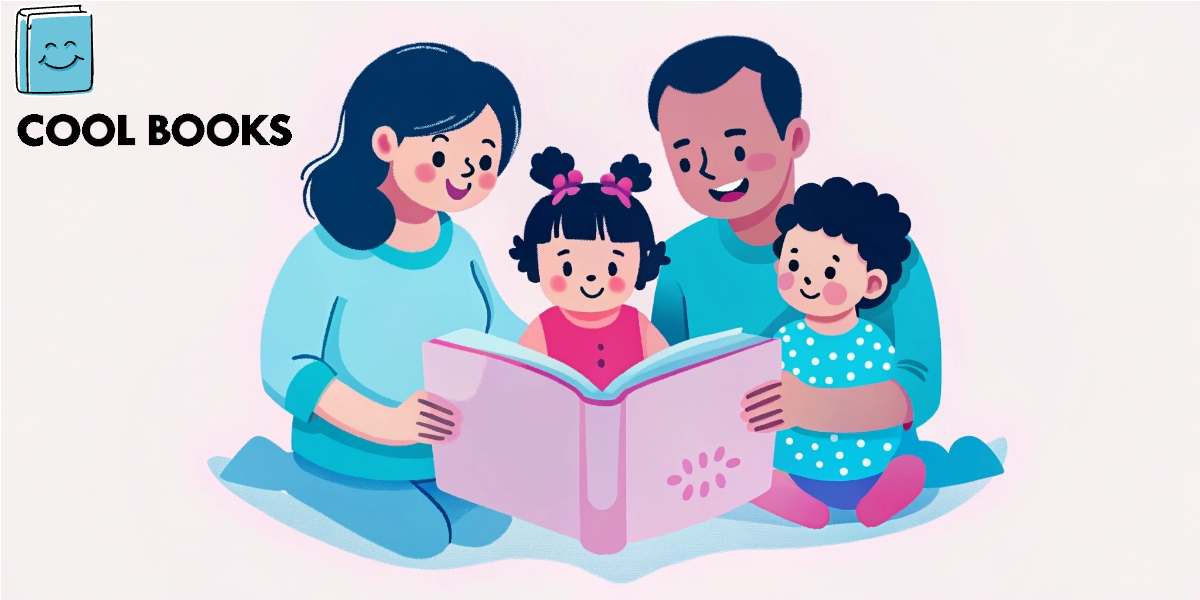
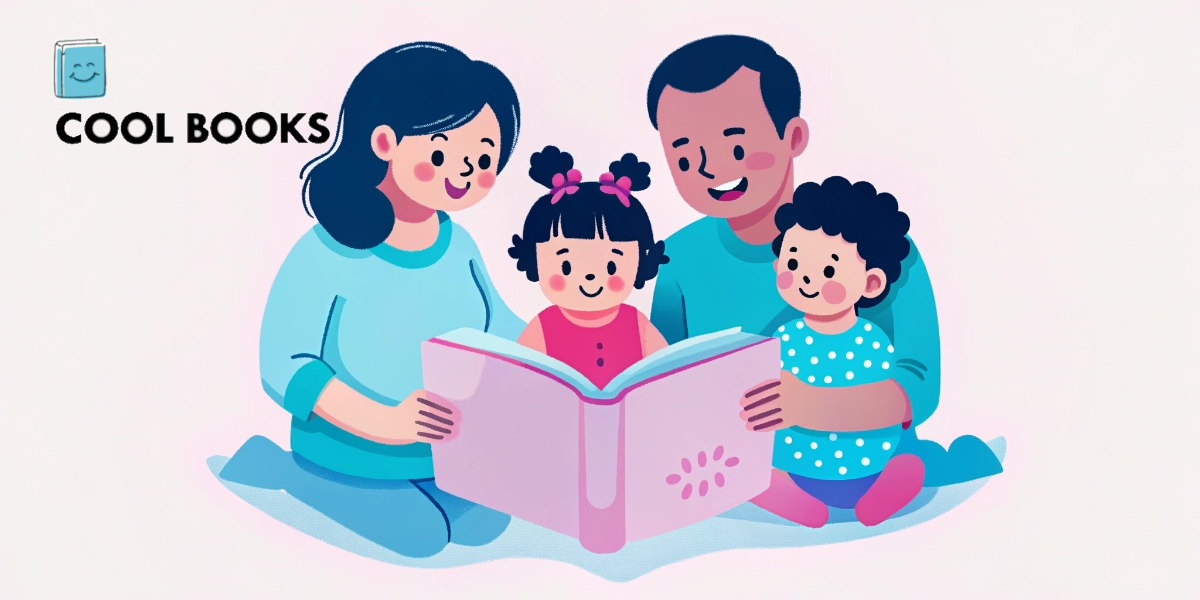
WIP

diff --git a/src/app/[locale]/(main)/book/[bookId]/book.tsx b/src/app/[locale]/(main)/book/[bookId]/book.tsx
@@ -7,13 +7,19 @@ import Image from "next/image";
 import { redirect, usePathname } from "next/navigation";
 import { motion, useMotionValue } from "framer-motion";
 import {
+    BookImage,
     Bookmark,
     ChevronLeft,
     ChevronRight,
+    FileImage,
     Info,
+    Lock,
     Maximize2,
     Minimize2,
+    Settings,
+    Share2,
     Trash2,
+    Unlock,
 } from "lucide-react";
 import toast from "react-hot-toast";
 import type { User } from "lucia";
@@ -38,6 +44,7 @@ type BookProps = {
         title: string;
         cover: string;
         pages: Page[];
+        public: boolean;
         user: {
             name: string;
         };
@@ -69,15 +76,51 @@ const SPRING_OPTIONS = {
 
 const Book: React.FC<BookProps> = ({ book, user, isCreator }) => {
     const t = useTranslations("pages.book");
-    const tLoginSave = useTranslations("links");
+    const tMessages = useTranslations("messages");
     const [imgIndex, setImgIndex] = useState(0);
+    const [loadingPublic, setLoadingPublic] = useState(false);
+    const [bookPublic, setBookPublic] = useState<boolean>(book.public);
     const [showFullscreen, setShowFullscreen] = useState(false);
     const [fullscreenError, setFullscreenError] = useState(false);
+    const [open, setOpen] = useState<boolean>(false);
     const containerRef = useRef<HTMLDivElement | null>(null);
     const [isSaved, setIsSaved] = useState<boolean>(
         user?.savedBooks.includes(book.id) ?? false
     );
+
     const toggleSave = useSave();
+
+    const togglePublic: React.MouseEventHandler<HTMLLabelElement> = async (
+        e
+    ) => {
+        e.stopPropagation();
+        if (loadingPublic) {
+            return;
+        }
+        if (!user) {
+            toast(tMessages("login-save"), {
+                icon: <Info className="text-info" />,
+            });
+            return;
+        }
+        if (!isCreator) {
+            toast(tMessages("unauthorized"), {
+                icon: <Info className="text-info" />,
+            });
+            return;
+        }
+
+        setLoadingPublic(true);
+        setBookPublic((e) => !e);
+        await fetch("/api/book/update", {
+            method: "POST",
+            body: JSON.stringify({
+                id: book.id,
+                public: !bookPublic,
+            }),
+        });
+        setLoadingPublic(false);
+    };
 
     const allPages = [
         {
@@ -142,7 +185,7 @@ const Book: React.FC<BookProps> = ({ book, user, isCreator }) => {
 
     const handleSave = async () => {
         if (!user) {
-            toast(tLoginSave("login-save"), {
+            toast(tMessages("login-save"), {
                 icon: <Info className="text-info" />,
             });
             return;
@@ -153,12 +196,14 @@ const Book: React.FC<BookProps> = ({ book, user, isCreator }) => {
         await toggleSave(isSaved ? "unsave" : "save", book.id);
     };
 
-    if (!user) {
-        return <MustLogin />;
-    }
-
     return (
         <>
+            <DeleteBook
+                bookId={book.id}
+                callback={() => redirect("/")}
+                open={open}
+                setOpen={setOpen}
+            />
             <FullscreenError
                 open={fullscreenError}
                 setOpen={setFullscreenError}
@@ -172,29 +217,6 @@ const Book: React.FC<BookProps> = ({ book, user, isCreator }) => {
                 </div>
 
                 <div className="flex gap-2">
-                    {isCreator && (
-                        <DeleteBook
-                            bookId={book.id}
-                            callback={() => redirect("/")}
-                        >
-                            <button className="btn btn-circle btn-soft btn-error">
-                                <Trash2 className="size-6" />
-                            </button>
-                        </DeleteBook>
-                    )}
-
-                    <button
-                        onClick={handleSave}
-                        className="btn btn-circle btn-primary"
-                    >
-                        <Bookmark
-                            className={cn(
-                                "size-6 text-white",
-                                isSaved && "fill-white"
-                            )}
-                        />
-                    </button>
-
                     <button
                         onClick={toggleFullscreen}
                         className="btn btn-circle btn-primary"
@@ -204,6 +226,98 @@ const Book: React.FC<BookProps> = ({ book, user, isCreator }) => {
                             <Minimize2 className="size-6" />
                         :   <Maximize2 className="size-6" />}
                     </button>
+
+                    <div className="dropdown dropdown-end">
+                        <div
+                            tabIndex={0}
+                            role="button"
+                            className="btn btn-circle btn-soft bg-secondary text-white"
+                        >
+                            <Settings className="size-6" />
+                        </div>
+                        <ul
+                            tabIndex={-1}
+                            className="dropdown-content menu bg-base-200 !z-1 rounded-box w-64 p-2 shadow-xl border border-base-300 gap-y-2 mt-2"
+                        >
+                            {isCreator && (
+                                <li>
+                                    <label
+                                        className={cn(
+                                            "btn rounded-xl justify-between",
+                                            loadingPublic && "contrast-50"
+                                        )}
+                                        onClick={togglePublic}
+                                    >
+                                        <span className="flex items-center gap-x-2">
+                                            {bookPublic ?
+                                                <Unlock className="size-6" />
+                                            :   <Lock className="size-6" />}
+                                            {t("public")}
+                                        </span>
+                                        <input
+                                            type="checkbox"
+                                            className="toggle toggle-primary"
+                                            checked={bookPublic}
+                                            readOnly
+                                        />
+                                    </label>
+                                </li>
+                            )}
+
+                            <li>
+                                <button
+                                    onClick={handleSave}
+                                    className="btn rounded-xl justify-start"
+                                >
+                                    <Bookmark
+                                        className={cn(
+                                            "size-6 text-primary",
+                                            isSaved && "fill-primary"
+                                        )}
+                                    />
+                                    {isSaved ? t("unsave") : t("save")}
+                                </button>
+                            </li>
+
+                            <div className="divider mx-auto -my-1 w-full px-2" />
+
+                            <li>
+                                <button
+                                    onClick={() => toast(t("coming-soon"))}
+                                    className="btn rounded-xl justify-start"
+                                >
+                                    <FileImage className="size-6" />
+                                    {t("download-pdf")}
+                                </button>
+                            </li>
+
+                            <li>
+                                <button
+                                    onClick={() => toast(t("coming-soon"))}
+                                    className="btn rounded-xl justify-start"
+                                >
+                                    <BookImage className="size-6" />
+                                    {t("download-epub")}
+                                </button>
+                            </li>
+
+                            {isCreator && (
+                                <>
+                                    <div className="divider mx-auto -my-1 w-full px-2" />
+
+                                    <button
+                                        className="btn rounded-xl justify-start btn-soft btn-error w-full"
+                                        onClick={(e) => {
+                                            setOpen(true);
+                                        }}
+                                    >
+                                        <Trash2 className="size-6" />
+                                        {t("delete")}
+                                    </button>
+                                </>
+                            )}
+                        </ul>
+                    </div>
                 </div>
             </div>
 

diff --git a/src/components/ui/delete-book.tsx b/src/components/ui/delete-book.tsx
@@ -7,16 +7,17 @@ import toast from "react-hot-toast";
 type DeleteBookProps = {
     bookId: string;
     callback: () => void;
-    children: React.ReactNode;
+    open: boolean;
+    setOpen: React.Dispatch<React.SetStateAction<boolean>>;
 };
 
 const DeleteBook: React.FC<DeleteBookProps> = ({
     bookId,
     callback,
-    children,
+    open,
+    setOpen,
 }) => {
     const t = useTranslations("pages.delete-book");
-    const [open, setOpen] = useState<boolean>(false);
 
     const handleDelete = async () => {
         const res = await fetch(`/api/book?bookId=${bookId}`, {
@@ -36,8 +37,6 @@ const DeleteBook: React.FC<DeleteBookProps> = ({
 
     return (
         <>
-            <div onClick={() => setOpen(true)}>{children}</div>
-
             <Modal
                 isOpen={open}
                 setIsOpen={setOpen}
@@ -63,18 +62,18 @@ const DeleteBook: React.FC<DeleteBookProps> = ({
                     </div>
                 </div>
 
-                <div className="mt-5 sm:mt-4 sm:flex sm:flex-row-reverse gap-3">
+                <div className="mt-5 sm:mt-4 sm:flex sm:flex-row-reverse gap-3 space-y-2">
                     <button
                         type="button"
                         onClick={handleDelete}
-                        className="inline-flex w-full justify-center rounded-md bg-red-600 px-3 py-2 text-sm font-semibold text-white shadow-sm hover:bg-red-500 sm:w-auto"
+                        className="btn btn-error text-white max-sm:w-full"
                     >
                         {t("delete")}
                     </button>
                     <button
                         type="button"
                         onClick={() => setOpen(false)}
-                        className="inline-flex w-full justify-center rounded-md bg-white px-3 py-2 text-sm font-semibold text-gray-900 shadow-sm ring-1 ring-inset ring-gray-300 hover:bg-gray-50 sm:w-auto"
+                        className="btn btn-outline max-sm:w-full"
                     >
                         {t("cancel")}
                     </button>

diff --git a/src/app/[locale]/(main)/favorites/favorites.tsx b/src/app/[locale]/(main)/favorites/favorites.tsx
@@ -29,7 +29,7 @@ type FavoritesProps = {
 
 const Favorites: React.FC<FavoritesProps> = ({ user, books: allBooks }) => {
     const t = useTranslations("pages.favorites");
-    const tLoginSave = useTranslations("links");
+    const tMessages = useTranslations("messages");
     const [value, setValue] = useState("");
     const [books, setBooks] = useState<Books>(allBooks);
     const [allSavedBooks, setAllSavedBooks] = useState<string[]>(
@@ -50,7 +50,7 @@ const Favorites: React.FC<FavoritesProps> = ({ user, books: allBooks }) => {
 
     const handleSave = async (bookId: string) => {
         if (!user) {
-            toast(tLoginSave("login-save"), {
+            toast(tMessages("login-save"), {
                 icon: <Info className="text-info" />,
             });
             return;

diff --git a/src/app/[locale]/(main)/search/search.tsx b/src/app/[locale]/(main)/search/search.tsx
@@ -53,7 +53,7 @@ const artStyleImages: Record<string, string> = {
 
 const Search: React.FC<SearchProps> = ({ user, books: allBooks }) => {
     const t = useTranslations("pages.search");
-    const tLoginSave = useTranslations("links");
+    const tMessages = useTranslations("messages");
     const q = useSearchParams().get("q");
     const [search] = useState(q || "");
     const [books, setBooks] = useState<Books>(allBooks);
@@ -67,7 +67,7 @@ const Search: React.FC<SearchProps> = ({ user, books: allBooks }) => {
 
     const handleSave = async (bookId: string) => {
         if (!user) {
-            toast(tLoginSave("login-save"), {
+            toast(tMessages("login-save"), {
                 icon: <Info className="text-info" />,
             });
             return;

diff --git a/src/components/ui/books.tsx b/src/components/ui/books.tsx
@@ -31,7 +31,7 @@ type BooksProps = {
 
 const Books: React.FC<BooksProps> = ({ title, books, user }) => {
     const t = useTranslations("pages.home");
-    const tLoginSave = useTranslations("links");
+    const tMessages = useTranslations("messages");
     const [allSavedBooks, setAllSavedBooks] = useState<string[]>(
         user?.savedBooks || []
     );
@@ -69,7 +69,7 @@ const Books: React.FC<BooksProps> = ({ title, books, user }) => {
 
     const handleSave = async (bookId: string) => {
         if (!user) {
-            toast(tLoginSave("login-save"), {
+            toast(tMessages("login-save"), {
                 icon: <Info className="text-info" />,
             });
             return;
